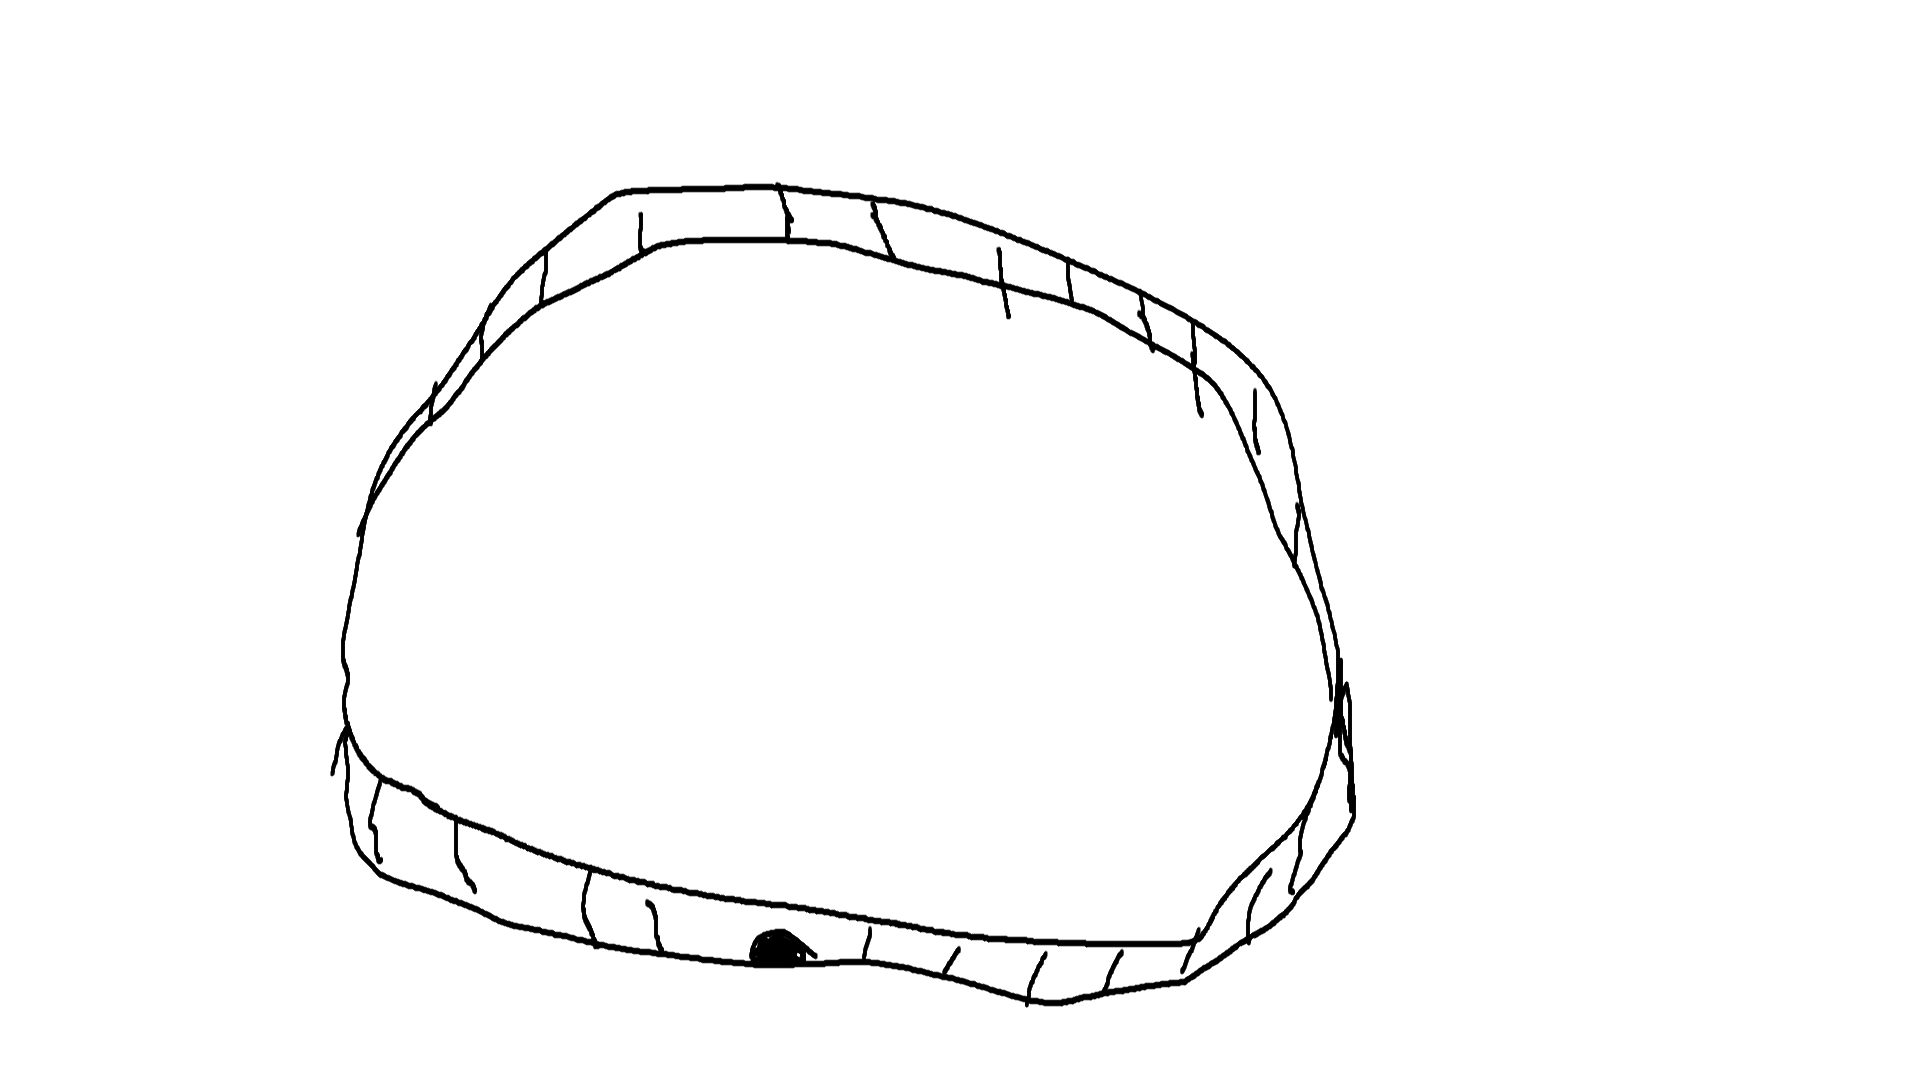
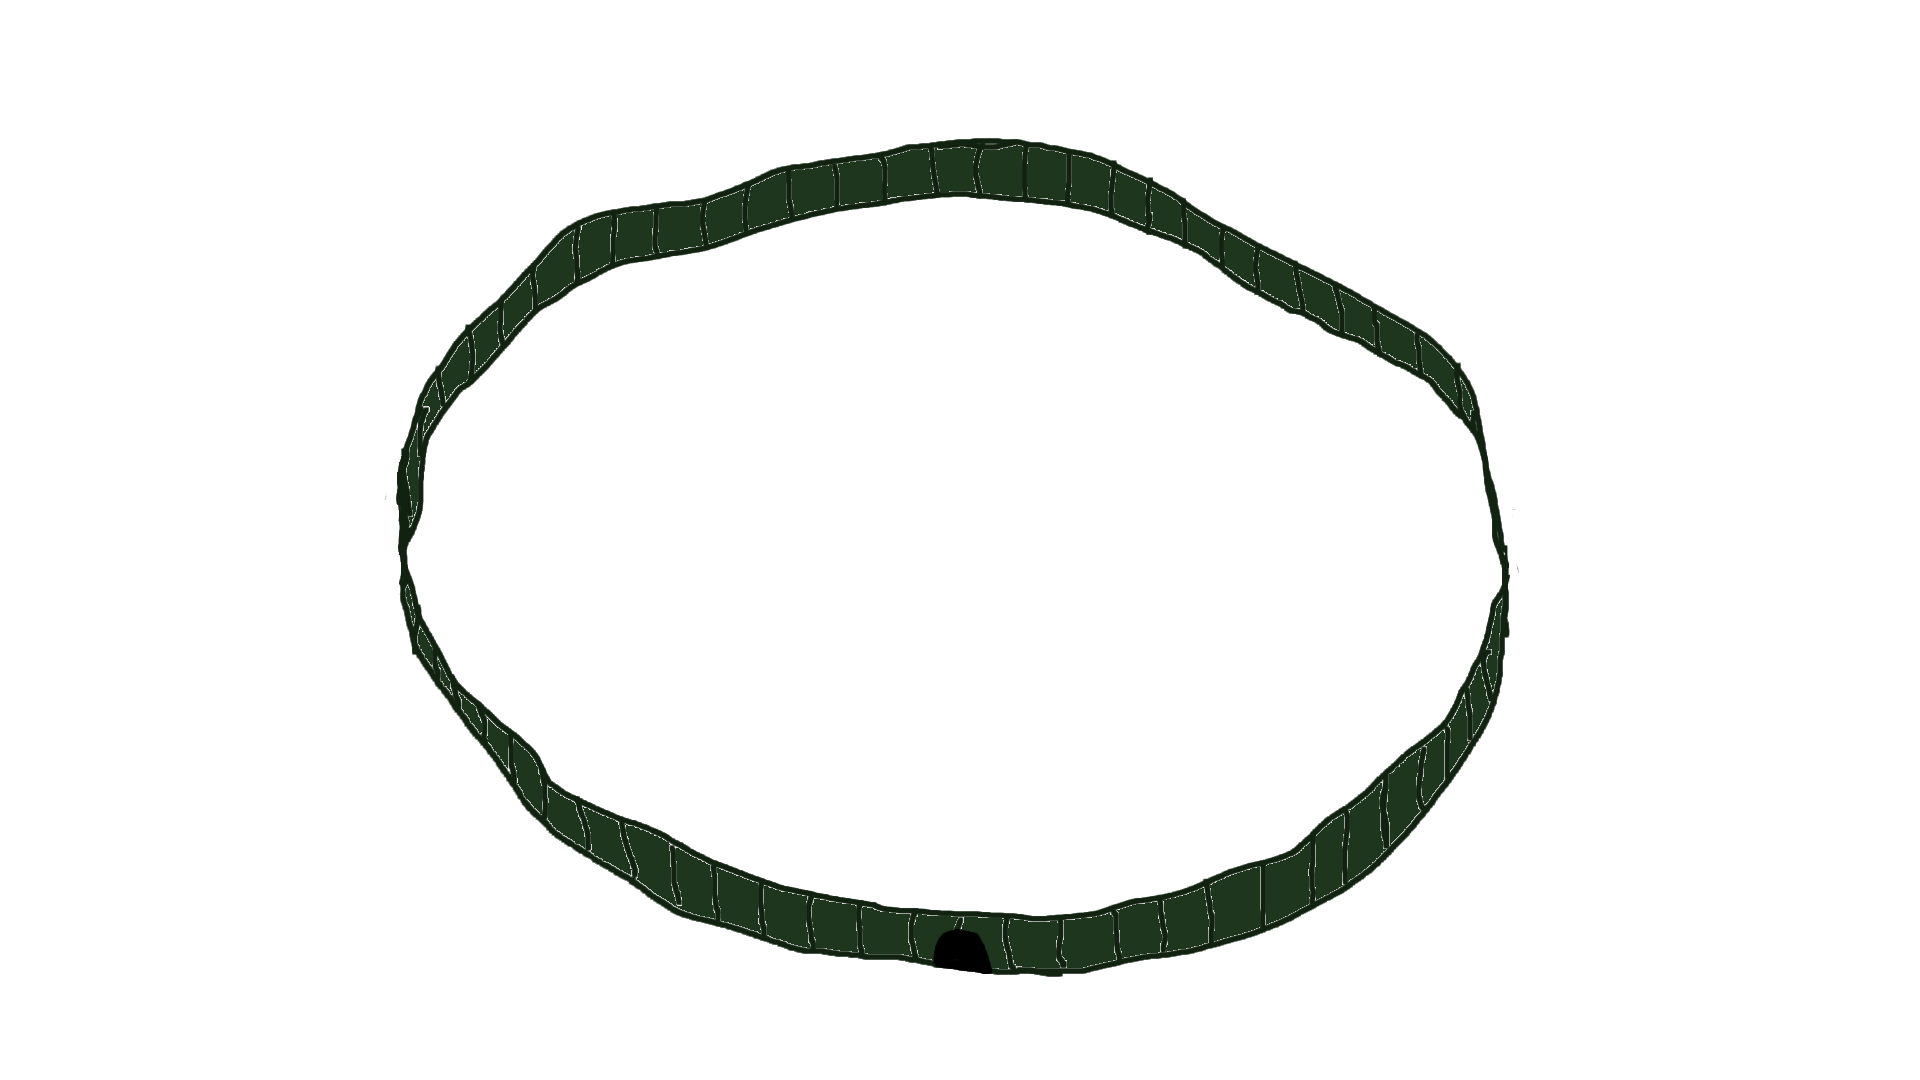
Added updated building images

Changed region(s): [[0.1562, 0.1222, 0.8125, 0.9472], [0.6562, 0.4278, 0.6875, 0.55]]

diff --git a/frontend/src/components/TownMap/TownMap.tsx b/frontend/src/components/TownMap/TownMap.tsx
@@ -1,11 +1,26 @@
 import React from "react";
 import styles from "./TownMap.module.css";
-import backgroundTownImage from "/buildingImages/BackgroundTown.png";
-import wallImage from "/buildingImages/Wall.png";
 import { useTownContext } from "@/pages/TownPage/TownContext";
 
+import backgroundImage from "/buildingImages/Background.png";
+import BaracsImage from "/buildingImages/Baracs.png";
+import FieldImage from "/buildingImages/Field.png";
+import ForgeImage from "/buildingImages/Forge.png";
+import MineImage from "/buildingImages/Mine.png";
+import SawmillImage from "/buildingImages/Sawmill.png";
+import StonepitImage from "/buildingImages/Stonepit.png";
+import TownHallImage from "/buildingImages/TownHall.png";
+import WallImage from "/buildingImages/Wall.png";
+
 const buildingImages: { [key: string]: string } = {
-  Wall: wallImage,
+  Baracs: BaracsImage,
+  Field: FieldImage,
+  Forge: ForgeImage,
+  Mine: MineImage,
+  Sawmill: SawmillImage,
+  Stonepit: StonepitImage,
+  Townhall: TownHallImage,
+  Wall: WallImage,
 };
 
 const TownMap = () => {
@@ -16,7 +31,7 @@ const TownMap = () => {
     <div className={styles.townMapContainer}>
       <img
         className={styles.backgroundImage}
-        src={backgroundTownImage}
+        src={backgroundImage}
         alt="backgroundTown"
       />
       {town?.buildingInstances.map((instance) => (
